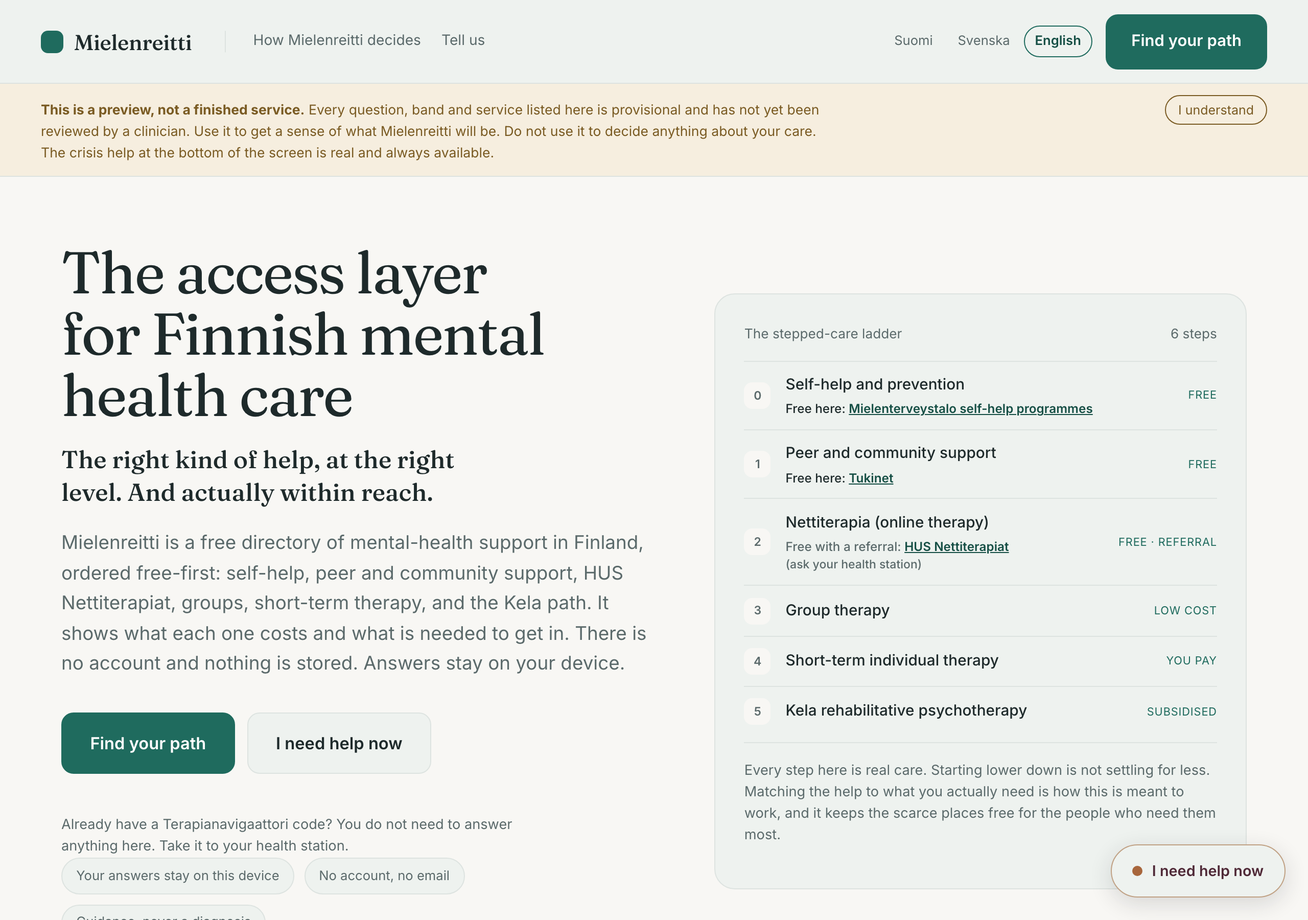
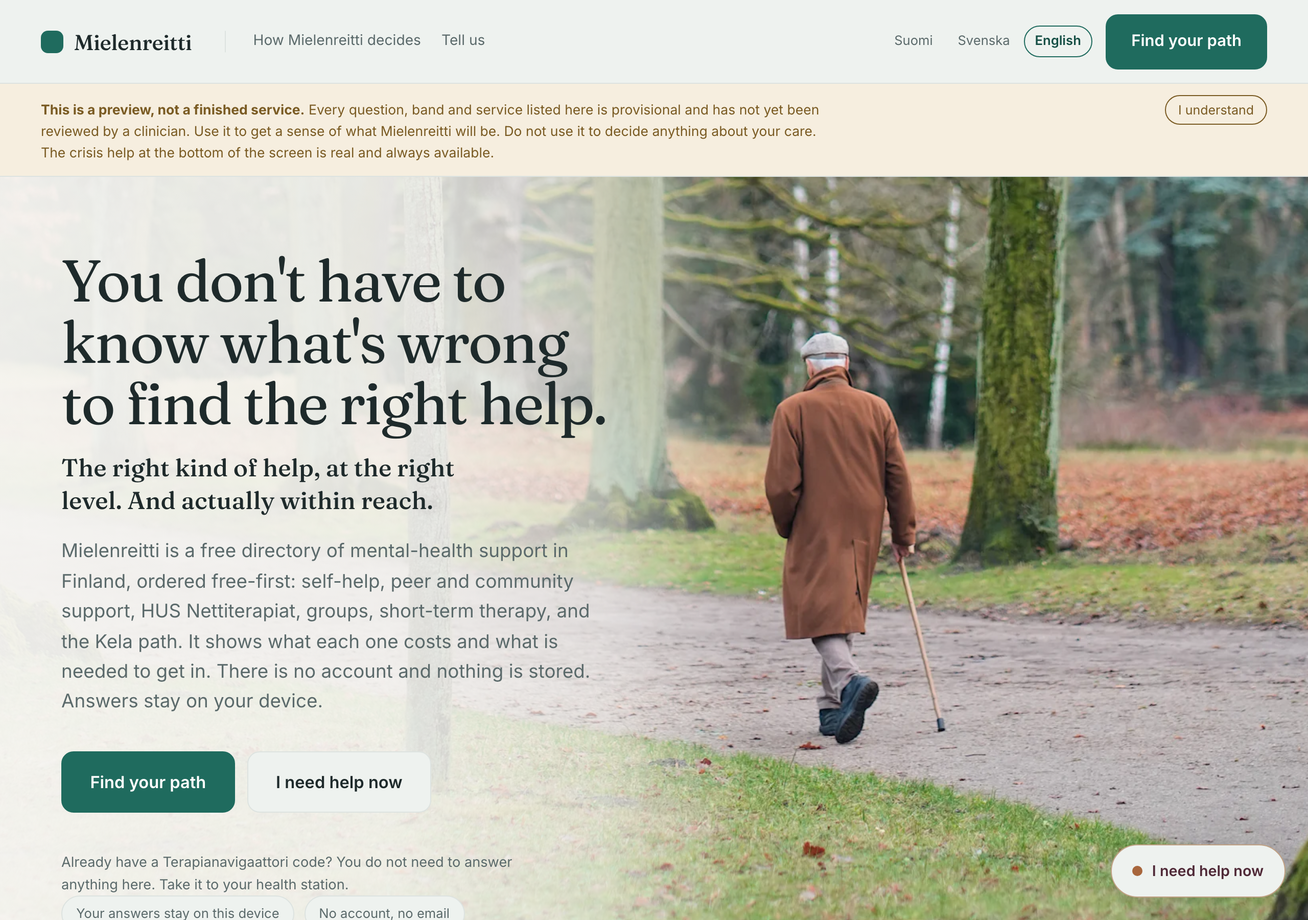
Redesign step 2: hero photo, hook line, header
Landing hero rebuilt to the v2 design. Layout and copy only; no routing,
scoring or safety behaviour changed.

- The photo is full bleed with the veil behind the TEXT only, as the task
  specifies. A scrim across the whole frame would turn a photograph of a
  person into a texture. On phones the veil does cover the frame, because
  otherwise the text sits on the busiest part of the picture: readability
  beats the effect.
- The veil is the page colour, not black. Darkening the image would force
  white type, and a light page that turns dark at the top reads as two
  products stacked.
- The hook line replaces the access-layer headline (task §6). The Finnish
  and Swedish are my drafts and are marked `_needsNativeReview` in their
  bundles until the B8 pass. Both were shortened after the hero test
  caught them running longer than the subtitle they introduce, which is a
  real property worth keeping, not a test to relax.
- The ladder card moved out of the hero into its own section. It was the
  hero's right-hand column, and a dense card on top of a photograph is
  neither. Step 4 replaces it with the pyramid.

Photos. Only ONE of the design's two photos is shipped. The export credits
a single Unsplash page, and that page is the autumn path: Victoria Prymak,
"Free to use under the Unsplash License", checked 2026-09-24. The second
image ("People on a rocky shore") could not be traced to a photo page, so
[…]

diff --git a/apps/web/src/styles.css b/apps/web/src/styles.css
@@ -670,13 +670,75 @@ h4 {
 
 /* ---------- home ---------- */
 
+/* Full bleed. The photo is a real photograph of a person, so it keeps full
+   exposure across most of the frame; only the left side carries a veil, and only
+   because text has to be readable on top of it.
+
+   The veil is the page colour rather than black: darkening the image would make
+   the type white, and a light page that turns dark at the top reads as two
+   different products stacked. */
 .hero {
-  display: grid;
-  grid-template-columns: 1.05fr 0.95fr;
-  gap: 4rem;
+  position: relative;
+  isolation: isolate;
+  min-height: 34rem;
+  display: flex;
   align-items: center;
-  padding-block: 4rem 3.5rem;
+  overflow: hidden;
 }
+
+.hero-photo,
+.hero-photo img {
+  position: absolute;
+  inset: 0;
+  width: 100%;
+  height: 100%;
+  object-fit: cover;
+  z-index: -2;
+}
+
+.hero-veil {
+  position: absolute;
+  inset: 0;
+  z-index: -1;
+  background: linear-gradient(
+    to right,
+    rgba(248, 247, 244, 0.94) 0%,
+    rgba(248, 247, 244, 0.88) 30%,
+    rgba(248, 247, 244, 0.62) 46%,
+    rgba(248, 247, 244, 0) 58%
+  );
+}
+
+.hero-inner {
+  width: 100%;
+  padding-block: 4.5rem;
+}
+
+.hero-text {
+  max-width: 34rem;
+}
+
+/* On a phone the text would sit over the busiest part of the picture, so the
+   veil covers the whole frame instead of a slice of it. Readability wins over
+   the effect; the photo is still there underneath. */
+@media (max-width: 860px) {
+  .hero {
+    min-height: 0;
+  }
+
+  .hero-veil {
+    background: linear-gradient(to bottom, rgba(248, 247, 244, 0.93), rgba(248, 247, 244, 0.97));
+  }
+
+  .hero-inner {
+    padding-block: 2.5rem 2rem;
+  }
+}
+
+.ladder-section {
+  padding-block: 3rem 1rem;
+}
+
 
 @media (max-width: 60rem) {
   .hero {

diff --git a/apps/web/src/components/Home.tsx b/apps/web/src/components/Home.tsx
@@ -39,8 +39,25 @@ export function Home({
 
   return (
     <>
-      <section className="wrap hero">
-        <div>
+      {/* Full bleed, with the veil only behind the text. The photo stays at full
+          exposure everywhere else: a scrim across the whole image would turn it
+          into texture, and the point of a photograph of someone walking is that
+          it is a person. */}
+      <section className="hero">
+        <picture className="hero-photo">
+          <source
+            type="image/webp"
+            srcSet="/img/hero-1000.webp 1000w, /img/hero-2000.webp 2000w"
+            sizes="100vw"
+          />
+          {/* Self-hosted. The design export hot-links this from the Unsplash CDN,
+              which would put a third-party request on every page load. */}
+          <img src="/img/hero-1600.jpg" alt={t('home.heroAlt')} width={2000} height={1100} />
+        </picture>
+        <div className="hero-veil" aria-hidden="true" />
+
+        <div className="wrap hero-inner">
+          <div className="hero-text">
           {/* The access-layer line is the first thing a person reads, and it is
               the headline rather than a label above one. What Reitti promises
               sits directly under it, and the explanation under that. */}
@@ -68,8 +85,11 @@ export function Home({
             <span className="pill">{t('home.assurance.noAccount')}</span>
             <span className="pill">{t('home.assurance.noDiagnosis')}</span>
           </div>
+          </div>
         </div>
+      </section>
 
+      <section className="wrap ladder-section">
         <aside className="ladder-card">
           <div className="ladder-head">
             <span className="ladder-card-label">{t('home.ladder.title')}</span>

diff --git a/packages/engine/test/copy.test.ts b/packages/engine/test/copy.test.ts
@@ -90,11 +90,15 @@ describe('the hero reads as one thought stepping down', () => {
     }
   });
 
-  it('the headline is the access-layer line, not a label above it', () => {
-    // It used to sit in an eyebrow above the real heading. It is the heading now,
-    // so the eyebrow key must be gone rather than quietly orphaned.
-    expect(strings('ui', 'en')['home.title']).toMatch(/access layer/i);
+  it('the headline is a sentence, not a label above one', () => {
+    // It used to sit in an eyebrow above the real heading, and then it was the
+    // access-layer line. v2 replaces it with the hook line (D-28, task §6). What
+    // survives every rewrite is the shape: the headline is the heading, it is a
+    // whole sentence, and there is no label above it.
     for (const language of UI_LANGUAGES) {
+      const title = strings('ui', language)['home.title'];
+      expect(title, `${language} has no headline`).toBeTruthy();
+      expect(title.trim().endsWith('.'), `${language} headline is not a sentence: "${title}"`).toBe(true);
       expect(strings('ui', language)['home.eyebrow'], `${language} still has an eyebrow`).toBeUndefined();
     }
   });

diff --git a/apps/web/public/img/CREDITS.md b/apps/web/public/img/CREDITS.md
@@ -1,0 +1,29 @@
+# Photo credits
+
+Downloaded and served from this origin. Never hot-linked: the design export loads
+these from `images.unsplash.com`, and a request to a third party on every page load
+would undercut the claim that nothing about a visit leaves the device.
+
+## hero-2000.webp, hero-1000.webp, hero-1600.jpg
+
+- **Scene:** an older person walking along a park path in autumn.
+- **Photographer:** Victoria Prymak (@vprmk)
+- **Photo:** https://unsplash.com/photos/gUeWxej5wzE
+- **Licence:** Unsplash License, https://unsplash.com/license — the page states
+  "Free to use under the Unsplash License".
+- **Downloaded:** 2026-09-24, checked against the photo page the same day.
+- **Processing:** cropped to landscape (`crop=bottom`, so the person and the path
+  are in frame rather than the canopy) and re-encoded by the Unsplash CDN at
+  download time. Nothing about the scene was altered.
+
+## The second photo in the design was NOT used
+
+The export also references `photo-1656426050682-148eb5e04c24`, "People on a rocky
+shore by the sea", on the mobile landing frame. It is not here, and not shipped.
+
+The export credits only one photo page, and that page is the autumn path above. The
+rocky-shore image could not be traced to an Unsplash photo page, so its photographer
+could not be named and its licence could not be read. The redesign task says to stop
+rather than ship a photo whose licence page cannot be confirmed. The verified photo
+is used for the hero instead, which also satisfies the task's rule that the directory
+header may carry a photo only if it is the same one as the hero.
